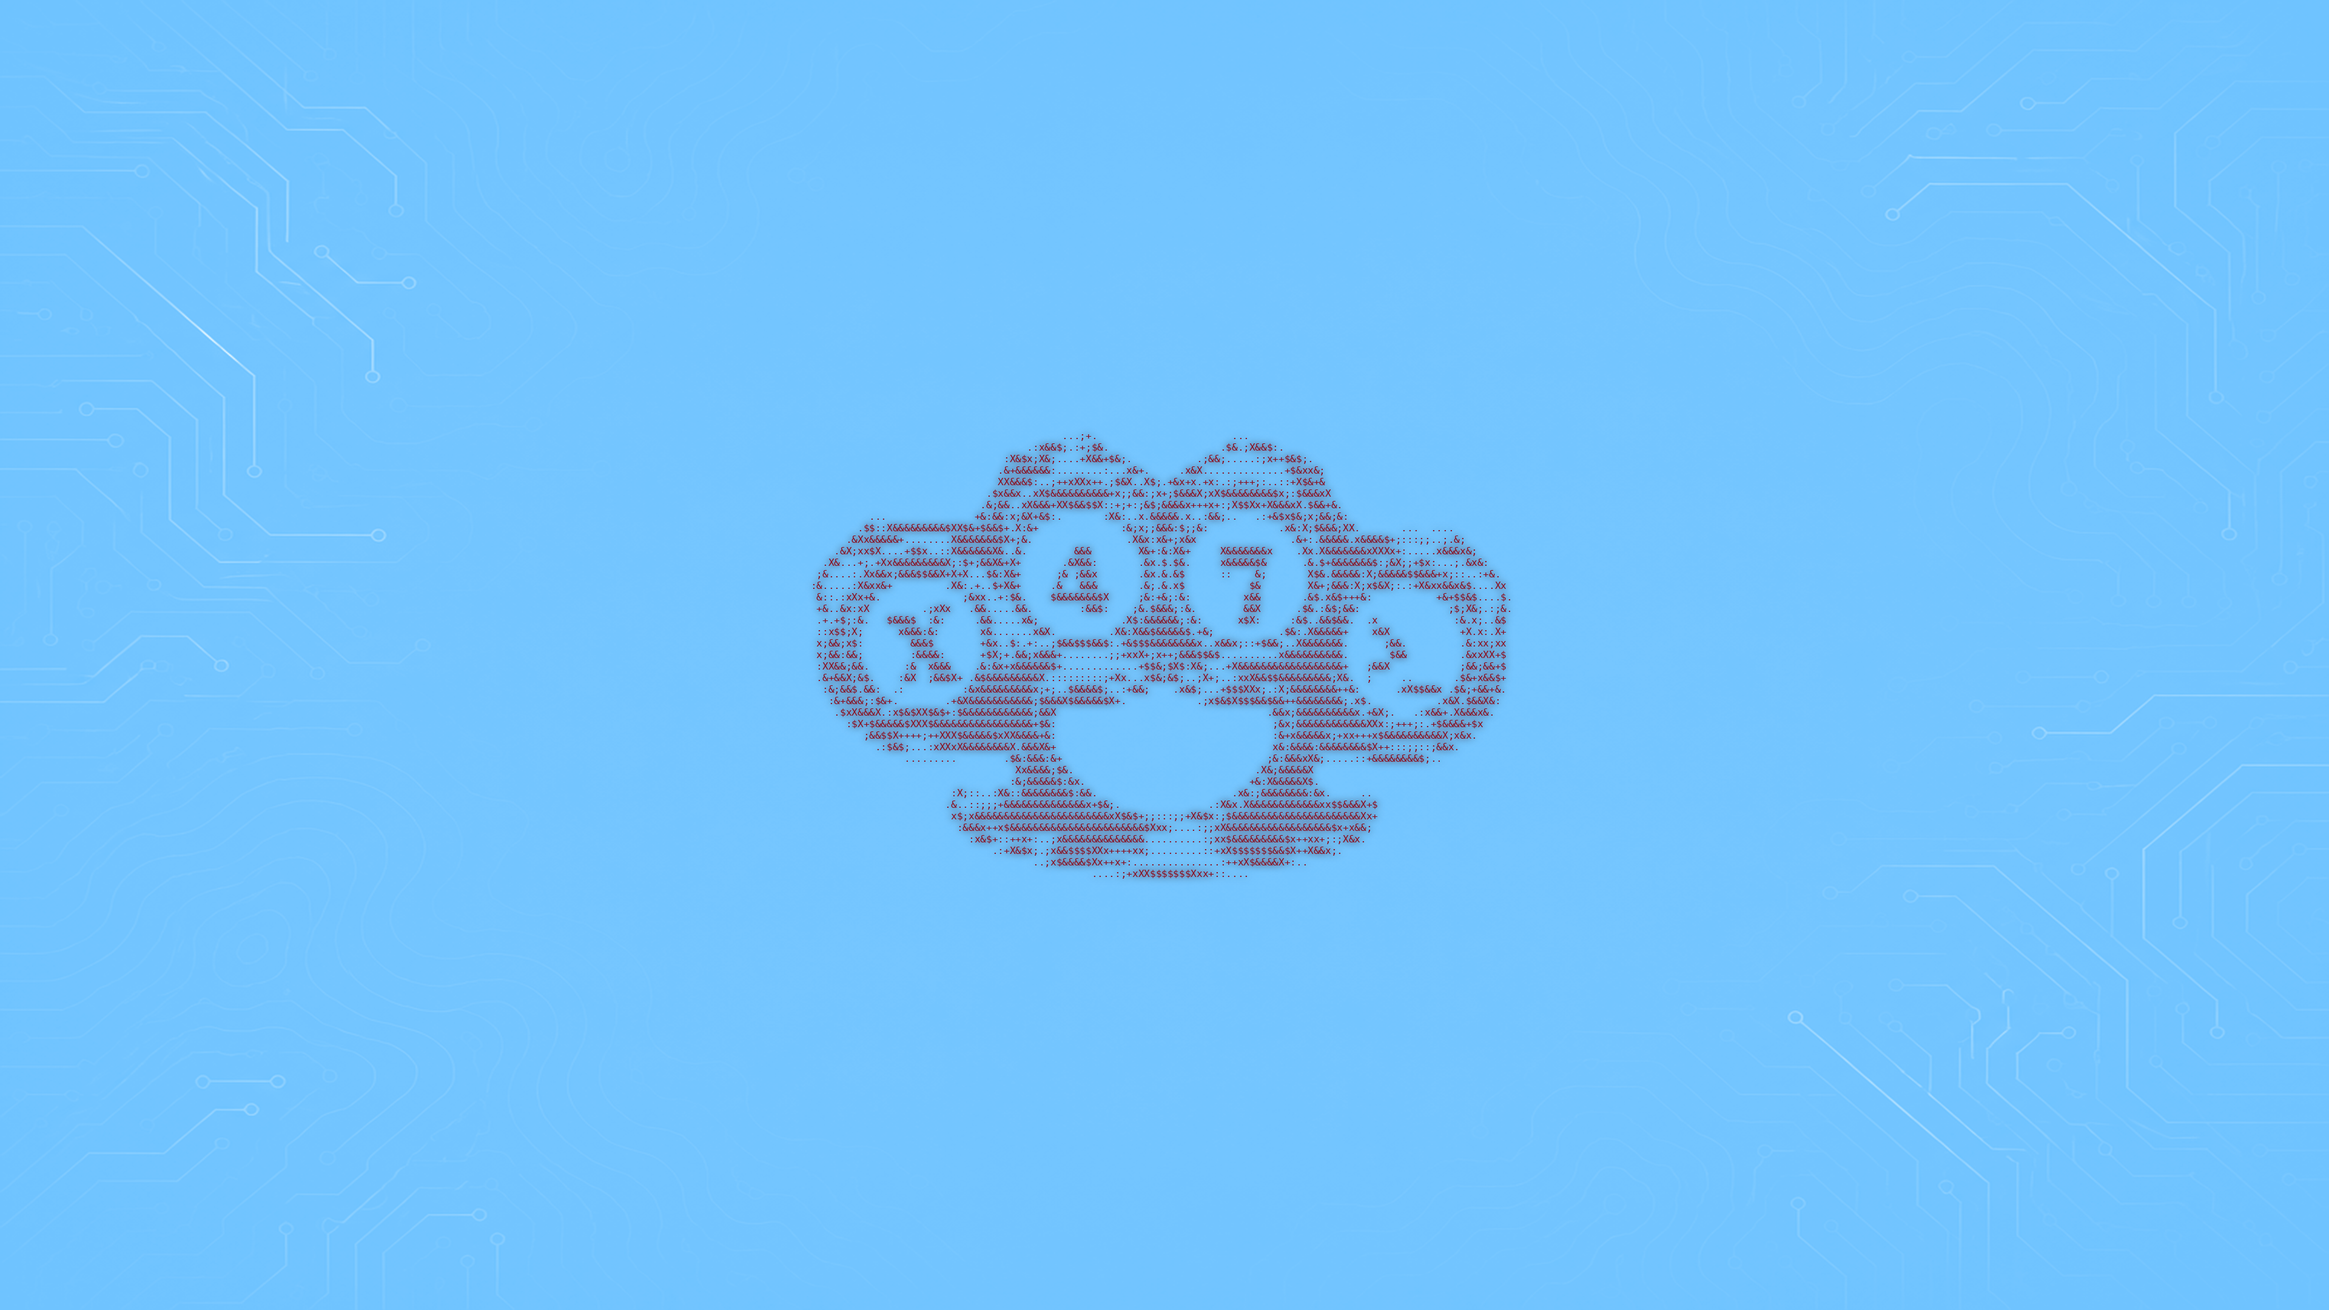
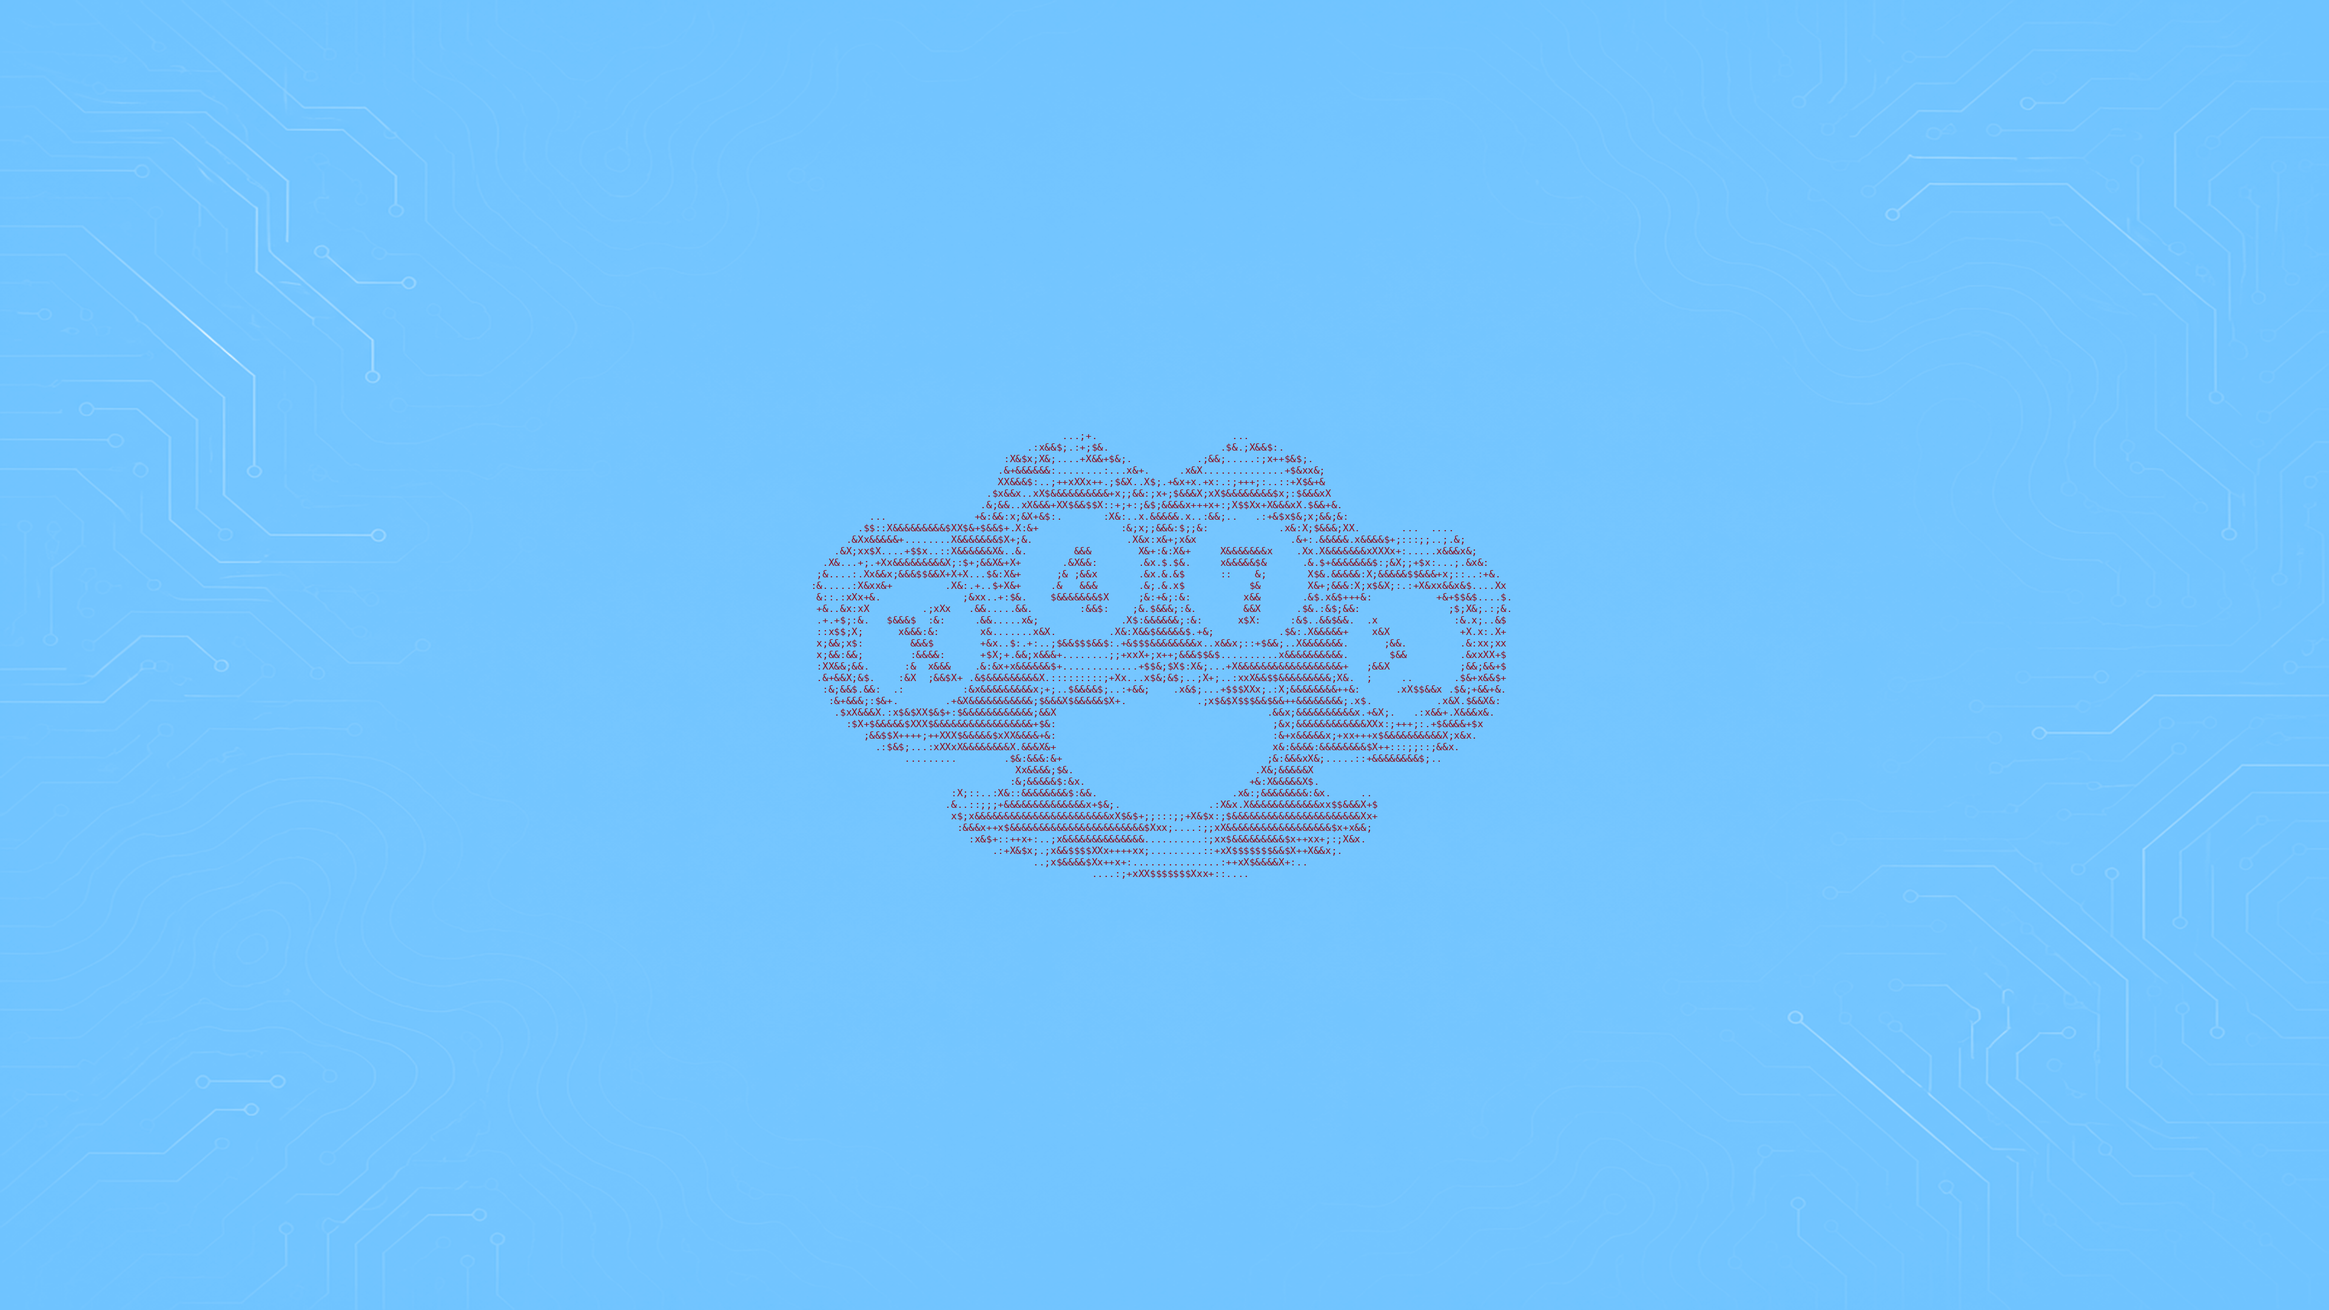
per-desktop wallpapers on cube faces, overview + selector tabs; crisper dusters; random colours past ws4

Changed region(s): [[0.3438, 0.3412, 0.6562, 0.6824]]

diff --git a/assets/extensions/x47-ws-walls@x47/extension.js b/assets/extensions/x47-ws-walls@x47/extension.js
@@ -1,28 +1,93 @@
-// X47 Workspace Walls — change the ASCII duster wallpaper colour when the
-// active GNOME workspace changes (desktop cube). Files live in
-// ~/.local/share/backgrounds/x47-circuit{,-green,-red,-purple}.png.
+// X47 Workspace Walls — every desktop gets its own coloured wallpaper.
+//
+// GNOME has only ONE global wallpaper, so out of the box the desktop cube
+// faces and the overview all show the same image until you land somewhere.
+// This extension fixes that everywhere it matters:
+//   1. the global wallpaper follows the active workspace,
+//   2. each face of the workspace-switch animation (Desktop Cube drag)
+//      shows its own workspace's wallpaper,
+//   3. the overview's big workspace previews show their own wallpaper,
+//   4. the small workspace thumbnails ("tabs" in the selector) are painted
+//      with their workspace's wallpaper behind the window clones.
+//
+// Workspaces 1-4 are preset: teal / pink-on-white / dark-red-on-baby-blue /
+// white-on-green. Any workspace beyond 4 gets a stable pseudo-random pick
+// from the extra colourways.
 
 import Gio from 'gi://Gio';
 import GLib from 'gi://GLib';
+import Meta from 'gi://Meta';
+import GDesktopEnums from 'gi://GDesktopEnums';
+import * as Main from 'resource:///org/gnome/shell/ui/main.js';
+import * as WorkspaceAnimation from 'resource:///org/gnome/shell/ui/workspaceAnimation.js';
+import * as Workspace from 'resource:///org/gnome/shell/ui/workspace.js';
+import * as WorkspaceThumbnail from 'resource:///org/gnome/shell/ui/workspaceThumbnail.js';
 import {Extension} from 'resource:///org/gnome/shell/extensions/extension.js';
 
-const FILES = [
-    'x47-circuit.png',         // workspace 1 — teal
-    'x47-circuit-pink.png',    // workspace 2 — pink duster, white circuit
-    'x47-circuit-blue.png',    // workspace 3 — dark red duster, baby blue circuit
-    'x47-circuit-green.png',   // workspace 4 — white duster, dark green circuit
+const PRESET = [
+    'x47-circuit.png',        // workspace 1 — teal duster on dark circuit
+    'x47-circuit-pink.png',   // workspace 2 — pink duster on white circuit
+    'x47-circuit-blue.png',   // workspace 3 — dark red duster on baby blue
+    'x47-circuit-green.png',  // workspace 4 — white duster on green circuit
+];
+const EXTRA = [
+    'x47-circuit-orange.png',
+    'x47-circuit-purple.png',
+    'x47-circuit-yellow.png',
+    'x47-circuit-red.png',
 ];
 
 export default class X47WsWallsExtension extends Extension {
     enable() {
         this._settings = new Gio.Settings({schema_id: 'org.gnome.desktop.background'});
-        this._bgDir = GLib.build_filenamev(
-            [GLib.get_user_data_dir(), 'backgrounds']);
+        this._bgDir = GLib.build_filenamev([GLib.get_user_data_dir(), 'backgrounds']);
+
+        const self = this;
+
+        // 1. Global wallpaper follows the landed workspace.
         this._wsId = global.workspace_manager.connect(
-            'active-workspace-changed', () => this._apply());
-        // Delay first apply slightly so the session finishes coming up.
+            'active-workspace-changed', () => this._applyGlobal());
+
+        // 2. Workspace-switch animation faces (Desktop Cube reuses these).
+        this._origAnimCreateBg =
+            WorkspaceAnimation.WorkspaceBackground.prototype._createBackground;
+        WorkspaceAnimation.WorkspaceBackground.prototype._createBackground = function () {
+            self._origAnimCreateBg.call(this);
+            self._retarget(this._bgManager, this._workspace?.index());
+        };
+
+        // 3. Overview big workspace previews.
+        this._origWsInit = Workspace.Workspace.prototype._init;
+        Workspace.Workspace.prototype._init = function (metaWorkspace, ...args) {
+            self._origWsInit.call(this, metaWorkspace, ...args);
+            if (metaWorkspace)
+                self._retarget(this._background?._bgManager, metaWorkspace.index());
+        };
+
+        // 4. Small selector thumbnails have no wallpaper at all by default —
+        //    paint one under the window clones.
+        this._origThumbInit = WorkspaceThumbnail.WorkspaceThumbnail.prototype._init;
+        WorkspaceThumbnail.WorkspaceThumbnail.prototype._init =
+        function (metaWorkspace, monitorIndex) {
+            self._origThumbInit.call(this, metaWorkspace, monitorIndex);
+            try {
+                const monitor = Main.layoutManager.monitors[monitorIndex];
+                const bgActor = new Meta.BackgroundActor({
+                    meta_display: global.display,
+                    monitor: monitorIndex,
+                });
+                bgActor.set_size(monitor.width, monitor.height);
+                bgActor.content.background =
+                    self._makeBackground(metaWorkspace.index());
+                this._contents.insert_child_below(bgActor, null);
+            } catch (e) {
+                console.warn(`x47-ws-walls: thumbnail wallpaper failed: ${e}`);
+            }
+        };
+
+        // First apply once the session settles.
         this._idle = GLib.idle_add(GLib.PRIORITY_DEFAULT_IDLE, () => {
-            this._apply();
+            this._applyGlobal();
             this._idle = 0;
             return GLib.SOURCE_REMOVE;
         });
@@ -37,37 +102,64 @@ export default class X47WsWallsExtension extends Extension {
             GLib.source_remove(this._idle);
             this._idle = 0;
         }
+        if (this._origAnimCreateBg) {
+            WorkspaceAnimation.WorkspaceBackground.prototype._createBackground =
+                this._origAnimCreateBg;
+            this._origAnimCreateBg = null;
+        }
+        if (this._origWsInit) {
+            Workspace.Workspace.prototype._init = this._origWsInit;
+            this._origWsInit = null;
+        }
+        if (this._origThumbInit) {
+            WorkspaceThumbnail.WorkspaceThumbnail.prototype._init = this._origThumbInit;
+            this._origThumbInit = null;
+        }
         this._settings = null;
     }
 
-    _apply() {
-        if (!this._settings)
-            return;
-        const n = global.workspace_manager.n_workspaces;
-        let idx = global.workspace_manager.get_active_workspace_index();
-        if (idx < 0)
-            idx = 0;
-        if (idx >= FILES.length)
-            idx = FILES.length - 1;
-        // If fewer than 4 workspaces, still map by index into the palette.
-        if (idx >= n)
-            idx = n - 1;
-
-        const file = FILES[idx];
-        console.log(`x47-ws-walls: workspace ${idx + 1} -> ${file}`);
-        const path = GLib.build_filenamev([this._bgDir, file]);
-        if (!GLib.file_test(path, GLib.FileTest.IS_REGULAR)) {
-            // Fall back to teal if a colour variant is missing.
-            const fallback = GLib.build_filenamev([this._bgDir, FILES[0]]);
-            if (!GLib.file_test(fallback, GLib.FileTest.IS_REGULAR))
-                return;
-            this._setUri(`file://${fallback}`);
-            return;
-        }
-        this._setUri(`file://${path}`);
+    // Wallpaper file for a workspace index; extras hashed so each spawned
+    // workspace keeps a stable "random" colour.
+    _pathFor(idx) {
+        let name;
+        if (idx < PRESET.length)
+            name = PRESET[idx];
+        else
+            name = EXTRA[((idx * 2654435761) >>> 16) % EXTRA.length];
+        const p = GLib.build_filenamev([this._bgDir, name]);
+        return GLib.file_test(p, GLib.FileTest.IS_REGULAR)
+            ? p
+            : GLib.build_filenamev([this._bgDir, PRESET[0]]);
     }
 
-    _setUri(uri) {
+    _makeBackground(idx) {
+        const bg = new Meta.Background({meta_display: global.display});
+        bg.set_file(Gio.File.new_for_path(this._pathFor(idx)),
+            GDesktopEnums.BackgroundStyle.ZOOM);
+        return bg;
+    }
+
+    // Point an existing BackgroundManager's actor at the workspace's file,
+    // and keep it pointed there if the manager swaps actors (it does when the
+    // global wallpaper changes mid-animation on landing).
+    _retarget(mgr, idx) {
+        if (!mgr || idx === undefined || idx === null || idx < 0)
+            return;
+        const apply = () => {
+            const actor = mgr.backgroundActor;
+            if (actor?.content)
+                actor.content.background = this._makeBackground(idx);
+        };
+        apply();
+        mgr.connect('changed', apply);
+    }
+
+    _applyGlobal() {
+        if (!this._settings)
+            return;
+        const idx = global.workspace_manager.get_active_workspace_index();
+        const uri = `file://${this._pathFor(Math.max(idx, 0))}`;
+        console.log(`x47-ws-walls: workspace ${idx + 1} -> ${uri}`);
         try {
             this._settings.set_string('picture-uri', uri);
             this._settings.set_string('picture-uri-dark', uri);

diff --git a/scripts/make-wallpaper.py b/scripts/make-wallpaper.py
@@ -28,33 +28,54 @@ W, H = 3840, 2160
 ART_WIDTH_FRAC = 0.315
 FONT_PATH = "/usr/share/fonts/truetype/dejavu/DejaVuSansMono.ttf"
 
-# glow RGB (soft halo behind the art), sharp RGB (the art itself).
+# sharp RGB = the ASCII art itself; "glow" (optional) adds the soft halo the
+# original teal wallpaper has — omitted on the light variants so the duster
+# stays razor sharp.
 # "recolor" = (shadow RGB, trace RGB): the circuit background is converted to
 # grayscale and remapped onto that ramp, keeping the exact same pattern.
 # Without "recolor" the original dark circuit image is used untouched.
 COLOURS = {
+    # --- preset workspaces 1-4 ---
     "teal": {  # workspace 1 — teal duster on the original dark circuit
         "glow": (64, 224, 208),
         "sharp": (214, 246, 242),
         "out": "x47-circuit.png",
     },
     "pink": {  # workspace 2 — pink duster on white circuit
-        "glow": (255, 90, 160),
         "sharp": (230, 20, 120),
         "out": "x47-circuit-pink.png",
         "recolor": ((250, 248, 250), (150, 145, 158)),
     },
     "blue": {  # workspace 3 — dark red duster on bright baby blue circuit
-        "glow": (200, 30, 40),
         "sharp": (140, 10, 25),
         "out": "x47-circuit-blue.png",
         "recolor": ((110, 195, 255), (225, 245, 255)),
     },
     "green": {  # workspace 4 — white duster on medium-dark green circuit
-        "glow": (225, 255, 235),
         "sharp": (255, 255, 255),
         "out": "x47-circuit-green.png",
         "recolor": ((20, 95, 45), (115, 205, 135)),
+    },
+    # --- extra colourways, assigned randomly to workspaces beyond 4 ---
+    "orange": {
+        "sharp": (255, 255, 255),
+        "out": "x47-circuit-orange.png",
+        "recolor": ((205, 105, 15), (255, 190, 110)),
+    },
+    "purple": {
+        "sharp": (255, 255, 255),
+        "out": "x47-circuit-purple.png",
+        "recolor": ((70, 30, 110), (165, 115, 225)),
+    },
+    "yellow": {
+        "sharp": (45, 45, 55),
+        "out": "x47-circuit-yellow.png",
+        "recolor": ((235, 200, 30), (255, 240, 150)),
+    },
+    "red": {
+        "sharp": (255, 255, 255),
+        "out": "x47-circuit-red.png",
+        "recolor": ((125, 18, 25), (225, 95, 95)),
     },
 }
 
@@ -86,7 +107,7 @@ def background(spec):
     return ImageOps.colorize(gray, black=shadow, white=trace)
 
 
-def draw_art(base, lines, font, glow_rgb, sharp_rgb):
+def draw_art(base, lines, font, sharp_rgb, glow_rgb=None):
     cw = font.getlength("M")
     ascent, descent = font.getmetrics()
     lh = ascent + descent
@@ -95,19 +116,20 @@ def draw_art(base, lines, font, glow_rgb, sharp_rgb):
     x0 = (W - block_w) / 2
     y0 = (H - block_h) / 2
 
-    glow = Image.new("RGBA", (W, H), (0, 0, 0, 0))
-    gd = ImageDraw.Draw(glow)
-    for i, ln in enumerate(lines):
-        gd.text((x0, y0 + i * lh), ln, font=font, fill=(*glow_rgb, 255))
-    glow = glow.filter(ImageFilter.GaussianBlur(6))
+    out = base.convert("RGBA")
+
+    if glow_rgb is not None:
+        glow = Image.new("RGBA", (W, H), (0, 0, 0, 0))
+        gd = ImageDraw.Draw(glow)
+        for i, ln in enumerate(lines):
+            gd.text((x0, y0 + i * lh), ln, font=font, fill=(*glow_rgb, 255))
+        glow = glow.filter(ImageFilter.GaussianBlur(6))
+        out = Image.alpha_composite(out, glow)
 
     sharp = Image.new("RGBA", (W, H), (0, 0, 0, 0))
     sd = ImageDraw.Draw(sharp)
     for i, ln in enumerate(lines):
         sd.text((x0, y0 + i * lh), ln, font=font, fill=(*sharp_rgb, 255))
-
-    out = base.convert("RGBA")
-    out = Image.alpha_composite(out, glow)
     out = Image.alpha_composite(out, sharp)
     return out.convert("RGB")
 
@@ -118,8 +140,8 @@ def render(name: str, lines, font):
         background(spec),
         lines,
         font,
-        spec["glow"],
         spec["sharp"],
+        spec.get("glow"),
     )
     out = OUT_DIR / spec["out"]
     OUT_DIR.mkdir(parents=True, exist_ok=True)

diff --git a/README.md b/README.md
@@ -93,7 +93,7 @@ By default the installer tunes the GNOME desktop for the main user (opt out with
 - **Hover-only window controls** — minimize/maximize/close stay invisible until you hover the titlebar (GTK3 + GTK4 css + Firefox `userChrome.css`; pointer-events disabled while hidden so they cannot block app menus).
 - **Screenshot** — `Super+Shift+S` or `Print` (optional via X47 Settings / `--skip-win-screenshot`).
 - **WezTerm (PuTTY-style)** — left-drag select copies; right-click pastes; `Ctrl+C` / `Ctrl+V` (optional via X47 Settings / `--skip-putty-clipboard`).
-- **X47 wallpapers** — ASCII knuckle-duster on the same circuit pattern, one colourway per desktop-cube workspace: **teal on dark, pink on white, dark red on baby blue, white on green** (switched by `x47-ws-walls@x47`). Reproducible with `scripts/make-wallpaper.py --all`.
+- **X47 wallpapers** — ASCII knuckle-duster on the same circuit pattern, one colourway per workspace: **teal on dark, pink on white, dark red on baby blue, white on green**, plus random orange/purple/yellow/red for extra workspaces. `x47-ws-walls@x47` shows each desktop's own colour on the cube faces while dragging, in the overview previews, and on the selector tabs. Reproducible with `scripts/make-wallpaper.py --all`.
 - **Window animations** — open uses **TV Glitch**, close uses **Broken Glass** (split Burn My Windows profiles `x47-open.conf` / `x47-close.conf`).
 - **Linux CMD Helper widget** — a single sleek desktop card: type a question in plain English (e.g. "how do I install notepad++") and get back just the Ubuntu terminal command (Anthropic Claude Haiku); click to copy. It sits **above the desktop icons but under app windows**, **hides in fullscreen**, **snaps to a 16px grid**, and drags from its **title**. Position: `~/.config/x47-widgets/layout.json`.
 

diff --git a/CHANGELOG.md b/CHANGELOG.md
@@ -3,7 +3,8 @@
 ## v1.9.4 — 2026-08-05
 
 ### Desktop looks
-- **High-contrast workspace wallpapers** — same circuit pattern and crisp ASCII duster on every workspace, recoloured so you can tell them apart: WS1 teal on dark, WS2 pink duster on white, WS3 dark red duster on baby blue, WS4 white duster on medium-dark green.
+- **True per-desktop wallpapers** — `x47-ws-walls` now retargets the shell's per-workspace background actors, so the desktop-cube faces show each desktop's own colour *while you drag*, and the overview's previews and selector tabs always show the right one (previously everything showed the current wallpaper until you landed).
+- **Colour schemes** (same circuit pattern + crisp ASCII duster everywhere, glow only on teal): WS1 teal on dark, WS2 pink duster on white, WS3 dark red duster on baby blue, WS4 white duster on medium-dark green. Workspaces beyond 4 get a stable random pick from orange / purple / yellow / red colourways.
 
 ## v1.9.3 — 2026-08-05
 
